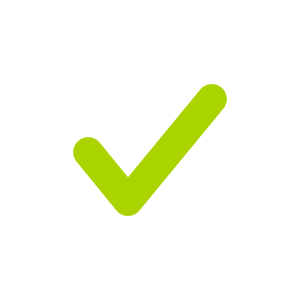
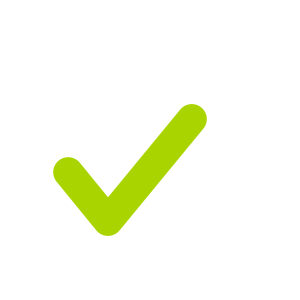
Add files via upload

diff --git a/js/game-script.js b/js/game-script.js
@@ -28,7 +28,7 @@ window.onload=function() {
   let c42 = document.getElementById("c42");
   let c43 = document.getElementById("c43");
   let c44 = document.getElementById("c44");
-  let whitedot = "";
+  let tickmark = "";
   
   function displayPortrait() {
     /*w = window.innerWidth;
@@ -221,29 +221,33 @@ window.onload=function() {
     c44.style.backgroundPosition = "center";
   }
 
-  function setWhiteDotPortrait() {
-    whitedot = document.createElement("img");
-    //whitedot.src = "imgs/whitedot.png";
-    whitedot.src = "imgs/tickmark.png";
-    whitedot.style.width = "8vw";
-    whitedot.style.height = "8vw";
+  function setTickmarkPortrait() {
+    if (tickmark) {
+      tickmark.remove()
+    }
+    tickmark = document.createElement("img");
+    tickmark.src = "imgs/tickmark.png";
+    tickmark.style.width = "5vw";
+    tickmark.style.height = "5vw";
 
-    whitedot.style.float = "right";
-    whitedot.style.top = "0";
-    c11.appendChild(whitedot);
+    c11.style.textAlign = "right";
+    c11.style.verticalAlign = "top";
+    c11.appendChild(tickmark);
     
   }
 
-  function setWhiteDotLandscape() {
-    whitedot = document.createElement("img");
-    //whitedot.src = "imgs/whitedot.png";
-    whitedot.src = "imgs/tickmark.png";
-    whitedot.style.width = "8vh";
-    whitedot.style.height = "8vh";
+  function setTickmarkLandscape() {
+    if (tickmark) {
+      tickmark.remove()
+    }
+    tickmark = document.createElement("img");
+    tickmark.src = "imgs/tickmark.png";
+    tickmark.style.width = "5vh";
+    tickmark.style.height = "5vh";
 
-    whitedot.style.float = "right";
-    whitedot.style.top = "0";
-    c11.appendChild(whitedot);
+    c11.style.textAlign = "right";
+    c11.style.verticalAlign = "top";
+    c11.appendChild(tickmark);
     
   }
 
@@ -285,19 +289,19 @@ window.onload=function() {
     displayPortrait();
     updateCellSizePortrait();
     setCellBorders();
-    if (whitedot) {
+    if (tickmark) {
       whitedot.remove();
     } 
-    //setWhiteDotPortrait();
+    setTickmarkPortrait();
     
   } else if ((w > h) /*|| (isLandscape)*/) {
     displayLandscape();
     updateCellSizeLandscape();
     setCellBorders();
-    if (whitedot) {
-      whitedot.remove();
+    if (tickmark) {
+      tickmark.remove();
     }
-    //setWhiteDotLandscape();
+    setTickmarkLandscape();
   };
 
   // Listen for orientation changes
@@ -393,27 +397,25 @@ window.addEventListener("resize", () => {
     w = window.innerWidth;
     h = window.innerHeight;
 
-    //alert("w: "+  w + ";  h: " + h);
-    
     if ((w <= h)) {
     
     displayPortrait();
     updateCellSizePortrait();
     setCellBorders();
-    /*if (whitedot) {
-      whitedot.remove();
-    }*/
-    //setWhiteDotPortrait(); 
+    if (tickmark) {
+      tickmark.remove();
+    }
+    setTickmarkPortrait(); 
         
   } else if ((w > h) /*|| (isLandscape)*/) {
     
     displayLandscape();
     updateCellSizeLandscape();
     setCellBorders();
-    /*if (whitedot) {
-      whitedot.remove();
-    }*/
-    //setWhiteDotLandscape();
+    if (tickmark) {
+      tickmark.remove();
+    }
+    setTickmarkLandscape();
      
   }
   }, 200); // Adjust the debounce delay (in milliseconds) as needed
